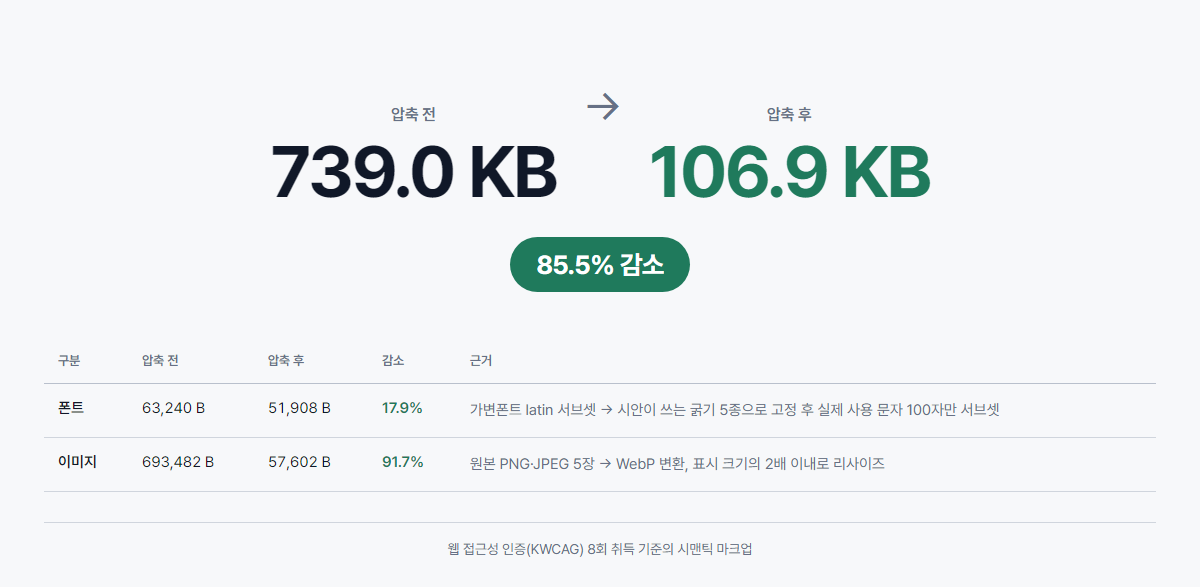
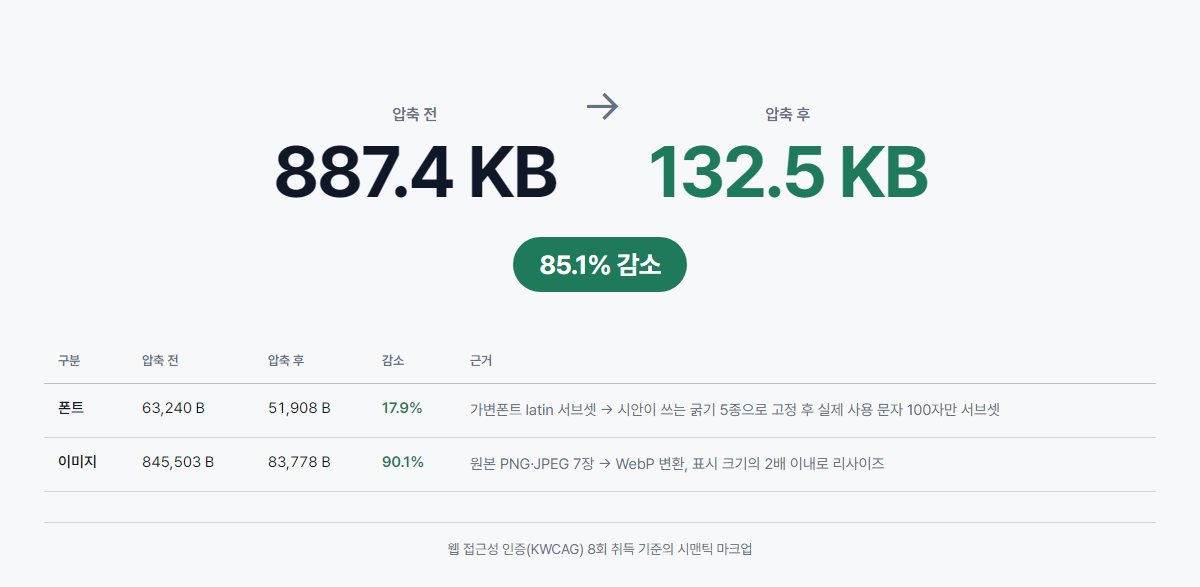
feat: 제품 카드 이미지 적용, 768 가로 넘침 수정, Vercel 정적 배포 설정
제품 카드
- 전달받은 목업 PNG 2장을 WebP로 변환해 적용, 주석 처리했던 img 복원
- 34,861 -> 13,886 / 117,160 -> 12,290 bytes

가로 넘침
- 시안은 단체 사진을 컨테이너보다 3.2% 넓게 잡아 좌우로 삐져나오게 한다.
  데스크톱에서는 컨테이너가 콘텐츠 폭의 절반이라 넘친 만큼이 여백에 흡수되는데,
  900px 이하에서 컬럼이 전체 폭이 되면서 그대로 화면 밖으로 나갔다.
  768에서 문서 폭이 771px가 되어 가로 스크롤이 생겼다. 세로 배치에서만 폭을 맞춘다.

배포
- package.json에 build 스크립트가 있어 Vercel이 프레임워크로 오해하고
  public/ 출력 폴더를 찾다가 실패했다. framework:null + outputDirectory:"." 로 고정
- .vercelignore로 tools/docs/portfolio/assets/raw 제외

검증: 3종 브라우저 높이 일치, 가로 넘침 0, 콘솔 에러 0,
시안 구조선 오차 최대 1px / 일치율 98.4%

Claude-Session: https://claude.ai/code/session_01WQu2wLsgFmneeoXvUbw1DW

diff --git a/dist/css/style.min.css b/dist/css/style.min.css
@@ -1,1 +1,1 @@
-:root{--c-ink: #132229;--c-mint: #b1d6ce;--c-text: #121212;--c-muted: #555;--c-bg: #fafafa;--c-line: #121212;--content-max: 1600px;--gutter: clamp(20px, -2.4709302326rem + 7.7519379845vw, 100px);--fs-display: clamp(28px, 0.726744186rem + 2.1317829457vw, 50px);--fs-title: clamp(22px, 0.5377906977rem + 1.7441860465vw, 40px);--fs-lead: clamp(17px, 0.4578488372rem + 1.2596899225vw, 30px);--fs-body: clamp(15px, 0.4723837209rem + 0.9689922481vw, 25px);--fs-caption: clamp(13px, 0.4869186047rem + 0.6782945736vw, 20px);--lh-display: 1.32;--lh-body: 1.32;--bw: clamp(1px, 0.0218023256rem + 0.0847868217vw, 1.875px);--sp-xs: clamp(4px, 0.0872093023rem + 0.3391472868vw, 7.5px);--sp-sm: clamp(10px, 0.1598837209rem + 0.9689922481vw, 20px);--sp-md: clamp(24px, 0.523255814rem + 2.0348837209vw, 45px);--sp-lg: clamp(30px, 0.7122093023rem + 2.4224806202vw, 55px);--sp-xl: clamp(48px, 0.5813953488rem + 5.0387596899vw, 100px);--ease: cubic-bezier(0.22, 0.61, 0.36, 1);--dur: 0.28s}@font-face{font-family:"Playfair Display";src:url("../../assets/fonts/playfair-display-400.woff2") format("woff2");font-weight:400;font-style:normal;font-display:swap}@font-face{font-family:"Playfair Display";src:url("../../assets/fonts/playfair-display-500.woff2") format("woff2");font-weight:500;font-style:normal;font-display:swap}@font-face{font-family:"Playfair Display";src:url("../../assets/fonts/playfair-display-700.woff2") format("woff2");font-weight:700;font-style:normal;font-display:swap}@font-face{font-family:"Manrope";src:url("../../assets/fonts/manrope-400.woff2") format("woff2");font-weight:400;font-style:normal;font-display:swap}@font-face{font-family:"Manrope";src:url("../../assets/fonts/manrope-600.woff2") format("woff2");font-weight:600;font-style:normal;font-display:swap}*,*::before,*::after{box-sizing:border-box}html{-webkit-text-size-adjust:100%;scroll-behavior:smooth}body{margin:0;background:var(--c-bg);color:var(--c-text);font-family:"Manrope",system-ui,-apple-system,"Segoe UI",sans-serif;font-size:var(--fs-body);line-height:var(--lh-body);overflow-x:hidden}h1,h2,h3,h4,p,figure,blockquote,hr{margin:0}ul,ol{margin:0;padding:0;list-style:none}img,svg{display:block;max-width:100%}a{color:inherit;text-decoration:none}button{margin:0;padding:0;border:0;background:none;color:inherit;font:inherit;cursor:pointer}:where(a,button,input,textarea,select,[tabindex]):focus-visible{outline:3px solid #2f6f62;outline-offset:3px;border-radius:2px}.is-dark :where(a,button,input,textarea,select,[tabindex]):focus-visible{outline-color:var(--c-mint)}.sr-only{position:absolute;width:1px;height:1px;margin:-1px;padding:0;overflow:hidden;clip-path:inset(50%);white-space:nowrap}.skip-link{position:absolute;top:0;left:0;z-index:100;padding:12px 20px;background:var(--c-mint);color:var(--c-ink);font-weight:600;transform:translateY(-120%);transition:transform var(--dur) var(--ease)}.skip-link:focus-visible{transform:translateY(0)}@media(prefers-reduced-motion: reduce){html{scroll-behavior:auto}*,*::before,*::after{animation-duration:.01ms !important;animation-iteration-count:1 !important;transition-duration:.01ms !important}}.section{padding-inline:var(--gutter);padding-block:var(--sp-xl)}.section__inner{max-width:var(--content-max);margin-inline:auto}.section--dark{background:var(--c-ink);color:var(--c-mint)}.cols{display:flex;justify-content:space-between;gap:var(--sp-xl)}.cols__col{flex:0 1 calc(50% - var(--sp-xl)/2);min-width:0}@media(max-width: 900px){.cols{flex-direction:column;gap:var(--sp-lg);align-items:stretch}.cols__col{flex:0 0 auto;width:100%}}.rule{box-sizing:border-box;max-width:var(--content-max);height:clamp(4px, 0.1104651163rem + 0.2906976744vw, 7px);margin:clamp(2px, 0.0784883721rem + 0.0968992248vw, 3px) auto 0;border:0;border-top:var(--bw) solid var(--c-line)}.js-reveal .reveal{opacity:0;transform:translateY(24px);transition:opacity .7s var(--ease),transform .7s var(--ease)}.js-reveal .reveal.is-visible{opacity:1;transform:none}.h-display{font-family:"Playfair Display",Georgia,serif;font-weight:400;font-size:var(--fs-display);line-height:var(--lh-display);color:var(--c-text)}.icon{flex:0 0 auto;width:clamp(18px, 0.5668604651rem + 1.1627906977vw, 30px);height:clamp(18px, 0.5668604651rem + 1.1627906977vw, 30px)}.link-more{display:inline-flex;align-items:center;gap:var(--sp-xs);color:var(--c-text);font-size:var(--fs-body)}.link-more__label{text-decoration:underline;text-underline-position:from-font}.link-more .icon{transition:transform var(--dur) var(--ease)}.link-more:hover .icon{transform:translateX(0.25em)}.btn-outline{display:inline-flex;align-items:center;gap:var(--sp-sm);padding:clamp(9px, 0.2834302326rem + 0.5813953488vw, 15px) var(--sp-sm);border:var(--bw) solid var(--c-line);color:var(--c-text);font-size:var(--fs-body);font-weight:600;transition:background-color var(--dur) var(--ease),color var(--dur) var(--ease)}.btn-outline__label{text-decoration:underline;text-underline-position:from-font}.btn-outline .icon{transition:transform var(--dur) var(--ease)}.btn-outline:hover{background:var(--c-text);color:var(--c-bg)}.btn-outline:hover .icon{transform:translateX(0.25em);filter:invert(1)}.btn-outline--mint{border-color:var(--c-mint);color:var(--c-mint)}.btn-outline--mint:hover{background:var(--c-mint);color:var(--c-ink)}.btn-outline--mint:hover .icon{filter:invert(1)}.btn-block{display:flex;align-items:center;justify-content:center;gap:var(--sp-sm);width:100%;padding:clamp(9px, 0.2834302326rem + 0.5813953488vw, 15px) var(--sp-sm);border:var(--bw) solid var(--c-line);color:var(--c-text);font-size:var(--fs-body);font-weight:600;transition:background-color var(--dur) var(--ease),color var(--dur) var(--ease)}.btn-block--underline{text-decoration:underline;text-underline-position:from-font}.btn-block:hover{background:var(--c-text);color:var(--c-bg)}.btn-square{display:inline-flex;align-items:center;justify-content:center;width:clamp(36px, 1.1337209302rem + 2.3255813953vw, 60px);height:clamp(36px, 1.1337209302rem + 2.3255813953vw, 60px);background:var(--c-mint);transition:opacity var(--dur) var(--ease)}.btn-square .icon{width:clamp(24px, 0.7558139535rem + 1.5503875969vw, 40px);height:clamp(24px, 0.7558139535rem + 1.5503875969vw, 40px)}.btn-square:hover{opacity:.82}.card{display:flex;flex-direction:column;gap:var(--sp-lg);padding:var(--sp-sm);border-top:var(--bw) solid var(--c-line);border-bottom:var(--bw) solid var(--c-line)}.card__text{display:flex;flex-direction:column;gap:var(--sp-sm)}.card__title{margin:0;font-family:"Playfair Display",Georgia,serif;font-weight:500;font-size:var(--fs-title);line-height:var(--lh-display);color:var(--c-text)}.card__desc{color:var(--c-muted);font-size:var(--fs-body)}.card__shot{aspect-ratio:710/500;overflow:hidden;background:#f5f5f5}.card__shot img{width:100%;height:100%;object-fit:cover;object-position:top left}.card--product{overflow:hidden}.card-row{display:flex;justify-content:space-between;gap:0}.card-row>.card{min-width:0}.card-row--3>.card{flex:0 1 30.15625%}.card-row--2>.card{flex:0 1 46.875%}@media(max-width: 1100px){.card-row--3{flex-wrap:wrap;gap:var(--sp-lg);justify-content:flex-start}.card-row--3>.card{flex:1 1 calc(50% - var(--sp-lg))}}@media(max-width: 700px){.card-row{flex-direction:column;gap:var(--sp-lg)}.card-row>.card{flex:1 1 auto}}.person{display:flex;flex-direction:column;gap:var(--sp-xs)}.person--row{flex-direction:row;align-items:flex-start;gap:clamp(9px, 0.2834302326rem + 0.5813953488vw, 15px)}.person__avatar{flex:0 0 auto;width:clamp(44px, 1.3081395349rem + 3.003875969vw, 75px);height:clamp(44px, 1.3081395349rem + 3.003875969vw, 75px);border-radius:50%;object-fit:cover}.person__meta{display:flex;flex-direction:column;gap:var(--sp-xs)}.person__name{font-family:"Playfair Display",Georgia,serif;font-weight:500;font-size:var(--fs-title)}.person__name--sm{font-weight:400;font-size:var(--fs-body);color:var(--c-text)}.person__role{font-size:var(--fs-caption);color:var(--c-muted)}.media{position:relative;aspect-ratio:750/560;width:100%}.media__shape{position:absolute;top:50%;left:50%;width:auto;height:133.9285714286%;aspect-ratio:186.564/250;transform:translate(-50%, -50%) rotate(-90deg);transform-origin:center}.media__photo{position:absolute;max-width:none;object-fit:cover}.media__photo--founder{top:54.8%;left:50%;width:69.833%;height:90.402%;object-position:center top;transform:translate(-50%, -50%)}.media__photo--team{top:7.813%;left:51.584%;width:103.167%;height:92.113%;transform:translateX(-50%)}.nav{background:var(--c-ink);padding:clamp(9px, 0.2834302326rem + 0.5813953488vw, 15px) var(--gutter)}.nav__inner{display:flex;align-items:center;gap:clamp(24px, -3.1976744186rem + 9.7868217054vw, 125px);max-width:var(--content-max);margin-inline:auto}.nav__brand img{width:clamp(70px, 2.7005813953rem + 3.488372093vw, 106px);height:auto}.nav__menu{display:flex;align-items:center;gap:var(--sp-sm)}.nav__link{display:inline-block;padding:clamp(10px, -0.3052325581rem + 1.9379844961vw, 30px) clamp(6px, -0.0436046512rem + 0.8720930233vw, 15px);color:var(--c-mint);font-family:"Playfair Display",Georgia,serif;font-weight:500;font-size:var(--fs-body);transition:opacity var(--dur) var(--ease)}.nav__link:hover{opacity:.7}@media(max-width: 560px){.nav__inner{flex-direction:column;align-items:flex-start;gap:8px}.nav__menu{flex-wrap:wrap}}.hero{background:var(--c-ink)}.hero__inner{display:flex;align-items:flex-end;justify-content:space-between;gap:var(--sp-xl);min-height:clamp(0px, -24.6511627907rem + 51.3565891473vw, 530px)}.hero__title{flex:0 1 auto;max-width:750px;margin:0;color:var(--c-mint);font-family:"Playfair Display",Georgia,serif;font-weight:400;font-size:var(--fs-display);line-height:var(--lh-display)}@media(max-width: 900px){.hero__inner{flex-direction:column;align-items:flex-start;gap:var(--sp-lg)}.hero__title{max-width:none}}.deco{display:flex;flex-direction:column;gap:clamp(14px, -0.5668604651rem + 3.003875969vw, 45px)}.deco__row{display:flex}.deco__cell{display:block;width:clamp(28px, -1.1337209302rem + 6.007751938vw, 90px);height:clamp(28px, -1.1337209302rem + 6.007751938vw, 90px)}.deco__cell img{width:100%;height:100%}@media(max-width: 900px){.deco{align-self:flex-start}}.about__aside{display:flex;flex-direction:column;justify-content:space-between;gap:var(--sp-lg);min-height:clamp(0px, -18.6046511628rem + 38.7596899225vw, 400px)}.about__text{font-size:var(--fs-body)}.about .btn-outline{align-self:flex-end}@media(max-width: 900px){.about__aside{min-height:0}.about .btn-outline{align-self:flex-start}}.services .section__inner,.products .section__inner,.testimonials .section__inner{display:flex;flex-direction:column;gap:var(--sp-lg);align-items:stretch}.quote{background:var(--c-ink);color:var(--c-mint)}.quote .section__inner{align-items:flex-end}.quote__body{display:flex;flex-direction:column;justify-content:space-between;gap:var(--sp-lg);min-height:clamp(0px, -26.0465116279rem + 54.2635658915vw, 560px)}.quote__text{font-family:"Playfair Display",Georgia,serif;font-weight:400;font-size:var(--fs-display);line-height:var(--lh-display)}.quote__text strong{font-weight:700}.quote__action{display:flex;align-items:flex-end;justify-content:space-between;gap:var(--sp-md)}.quote__links{display:flex;gap:var(--sp-sm);font-family:"Playfair Display",Georgia,serif;font-weight:500;font-size:var(--fs-lead)}.quote__links a{text-decoration:underline;text-underline-position:from-font;transition:opacity var(--dur) var(--ease)}.quote__links a:hover{opacity:.7}.quote .person__name,.quote .person__role{color:var(--c-mint)}@media(max-width: 900px){.quote .section__inner{align-items:stretch}.quote__body{min-height:0}.quote__action{flex-wrap:wrap;align-items:center}}.cta{background:#f5f5f5}.cta .section__inner{align-items:flex-end}.cta__body{display:flex;flex-direction:column;justify-content:space-between;gap:var(--sp-lg);min-height:clamp(0px, -26.0465116279rem + 54.2635658915vw, 560px)}.cta__title{margin:0;color:var(--c-ink);font-family:"Playfair Display",Georgia,serif;font-weight:400;font-size:clamp(34px, -0.4796511628rem + 5.4263565891vw, 90px);line-height:1.2}@media(max-width: 900px){.cta .section__inner{align-items:stretch}.cta__body{min-height:0}}.site-footer{background:var(--c-ink);color:var(--c-mint)}.site-footer .section__inner{align-items:flex-end}.site-footer__brand{display:flex;flex-direction:column;gap:var(--sp-lg);align-items:flex-start}.site-footer__logo{width:clamp(70px, 2.7005813953rem + 3.488372093vw, 106px);height:auto}.site-footer__tagline{font-family:"Playfair Display",Georgia,serif;font-weight:400;font-size:var(--fs-title);line-height:var(--lh-display);max-width:750px}.site-footer__copy{font-size:var(--fs-body)}.site-footer__menus{display:flex;justify-content:flex-end;gap:var(--sp-lg)}.site-footer__license{max-width:var(--content-max);margin:var(--sp-lg) auto 0;padding-top:var(--sp-sm);border-top:1px solid rgba(177,214,206,.28);font-size:var(--fs-caption);color:rgba(177,214,206,.72)}.site-footer__license a{text-decoration:underline;text-underline-position:from-font}@media(max-width: 900px){.site-footer .section__inner{align-items:stretch}.site-footer__menus{justify-content:flex-start}}.footer-menu{display:flex;flex-direction:column;gap:clamp(9px, 0.2834302326rem + 0.5813953488vw, 15px)}.footer-menu__title{margin:0;padding:clamp(3px, 0.0944767442rem + 0.1937984496vw, 5px) clamp(6px, 0.1889534884rem + 0.3875968992vw, 10px);font-family:"Playfair Display",Georgia,serif;font-weight:700;font-size:var(--fs-lead);line-height:var(--lh-display)}.footer-menu ul{display:flex;flex-direction:column;gap:clamp(1px, -0.0072674419rem + 0.1453488372vw, 2.5px)}.footer-menu a{display:inline-block;padding:clamp(3px, 0.0944767442rem + 0.1937984496vw, 5px) clamp(6px, 0.1889534884rem + 0.3875968992vw, 10px);font-size:var(--fs-body);text-decoration:underline;text-underline-position:from-font;transition:opacity var(--dur) var(--ease)}.footer-menu a:hover{opacity:.7}
+:root{--c-ink: #132229;--c-mint: #b1d6ce;--c-text: #121212;--c-muted: #555;--c-bg: #fafafa;--c-line: #121212;--content-max: 1600px;--gutter: clamp(20px, -2.4709302326rem + 7.7519379845vw, 100px);--fs-display: clamp(28px, 0.726744186rem + 2.1317829457vw, 50px);--fs-title: clamp(22px, 0.5377906977rem + 1.7441860465vw, 40px);--fs-lead: clamp(17px, 0.4578488372rem + 1.2596899225vw, 30px);--fs-body: clamp(15px, 0.4723837209rem + 0.9689922481vw, 25px);--fs-caption: clamp(13px, 0.4869186047rem + 0.6782945736vw, 20px);--lh-display: 1.32;--lh-body: 1.32;--bw: clamp(1px, 0.0218023256rem + 0.0847868217vw, 1.875px);--sp-xs: clamp(4px, 0.0872093023rem + 0.3391472868vw, 7.5px);--sp-sm: clamp(10px, 0.1598837209rem + 0.9689922481vw, 20px);--sp-md: clamp(24px, 0.523255814rem + 2.0348837209vw, 45px);--sp-lg: clamp(30px, 0.7122093023rem + 2.4224806202vw, 55px);--sp-xl: clamp(48px, 0.5813953488rem + 5.0387596899vw, 100px);--ease: cubic-bezier(0.22, 0.61, 0.36, 1);--dur: 0.28s}@font-face{font-family:"Playfair Display";src:url("../../assets/fonts/playfair-display-400.woff2") format("woff2");font-weight:400;font-style:normal;font-display:swap}@font-face{font-family:"Playfair Display";src:url("../../assets/fonts/playfair-display-500.woff2") format("woff2");font-weight:500;font-style:normal;font-display:swap}@font-face{font-family:"Playfair Display";src:url("../../assets/fonts/playfair-display-700.woff2") format("woff2");font-weight:700;font-style:normal;font-display:swap}@font-face{font-family:"Manrope";src:url("../../assets/fonts/manrope-400.woff2") format("woff2");font-weight:400;font-style:normal;font-display:swap}@font-face{font-family:"Manrope";src:url("../../assets/fonts/manrope-600.woff2") format("woff2");font-weight:600;font-style:normal;font-display:swap}*,*::before,*::after{box-sizing:border-box}html{-webkit-text-size-adjust:100%;scroll-behavior:smooth}body{margin:0;background:var(--c-bg);color:var(--c-text);font-family:"Manrope",system-ui,-apple-system,"Segoe UI",sans-serif;font-size:var(--fs-body);line-height:var(--lh-body);overflow-x:hidden}h1,h2,h3,h4,p,figure,blockquote,hr{margin:0}ul,ol{margin:0;padding:0;list-style:none}img,svg{display:block;max-width:100%}a{color:inherit;text-decoration:none}button{margin:0;padding:0;border:0;background:none;color:inherit;font:inherit;cursor:pointer}:where(a,button,input,textarea,select,[tabindex]):focus-visible{outline:3px solid #2f6f62;outline-offset:3px;border-radius:2px}.is-dark :where(a,button,input,textarea,select,[tabindex]):focus-visible{outline-color:var(--c-mint)}.sr-only{position:absolute;width:1px;height:1px;margin:-1px;padding:0;overflow:hidden;clip-path:inset(50%);white-space:nowrap}.skip-link{position:absolute;top:0;left:0;z-index:100;padding:12px 20px;background:var(--c-mint);color:var(--c-ink);font-weight:600;transform:translateY(-120%);transition:transform var(--dur) var(--ease)}.skip-link:focus-visible{transform:translateY(0)}@media(prefers-reduced-motion: reduce){html{scroll-behavior:auto}*,*::before,*::after{animation-duration:.01ms !important;animation-iteration-count:1 !important;transition-duration:.01ms !important}}.section{padding-inline:var(--gutter);padding-block:var(--sp-xl)}.section__inner{max-width:var(--content-max);margin-inline:auto}.section--dark{background:var(--c-ink);color:var(--c-mint)}.cols{display:flex;justify-content:space-between;gap:var(--sp-xl)}.cols__col{flex:0 1 calc(50% - var(--sp-xl)/2);min-width:0}@media(max-width: 900px){.cols{flex-direction:column;gap:var(--sp-lg);align-items:stretch}.cols__col{flex:0 0 auto;width:100%}}.rule{box-sizing:border-box;max-width:var(--content-max);height:clamp(4px, 0.1104651163rem + 0.2906976744vw, 7px);margin:clamp(2px, 0.0784883721rem + 0.0968992248vw, 3px) auto 0;border:0;border-top:var(--bw) solid var(--c-line)}.js-reveal .reveal{opacity:0;transform:translateY(24px);transition:opacity .7s var(--ease),transform .7s var(--ease)}.js-reveal .reveal.is-visible{opacity:1;transform:none}.h-display{font-family:"Playfair Display",Georgia,serif;font-weight:400;font-size:var(--fs-display);line-height:var(--lh-display);color:var(--c-text)}.icon{flex:0 0 auto;width:clamp(18px, 0.5668604651rem + 1.1627906977vw, 30px);height:clamp(18px, 0.5668604651rem + 1.1627906977vw, 30px)}.link-more{display:inline-flex;align-items:center;gap:var(--sp-xs);color:var(--c-text);font-size:var(--fs-body)}.link-more__label{text-decoration:underline;text-underline-position:from-font}.link-more .icon{transition:transform var(--dur) var(--ease)}.link-more:hover .icon{transform:translateX(0.25em)}.btn-outline{display:inline-flex;align-items:center;gap:var(--sp-sm);padding:clamp(9px, 0.2834302326rem + 0.5813953488vw, 15px) var(--sp-sm);border:var(--bw) solid var(--c-line);color:var(--c-text);font-size:var(--fs-body);font-weight:600;transition:background-color var(--dur) var(--ease),color var(--dur) var(--ease)}.btn-outline__label{text-decoration:underline;text-underline-position:from-font}.btn-outline .icon{transition:transform var(--dur) var(--ease)}.btn-outline:hover{background:var(--c-text);color:var(--c-bg)}.btn-outline:hover .icon{transform:translateX(0.25em);filter:invert(1)}.btn-outline--mint{border-color:var(--c-mint);color:var(--c-mint)}.btn-outline--mint:hover{background:var(--c-mint);color:var(--c-ink)}.btn-outline--mint:hover .icon{filter:invert(1)}.btn-block{display:flex;align-items:center;justify-content:center;gap:var(--sp-sm);width:100%;padding:clamp(9px, 0.2834302326rem + 0.5813953488vw, 15px) var(--sp-sm);border:var(--bw) solid var(--c-line);color:var(--c-text);font-size:var(--fs-body);font-weight:600;transition:background-color var(--dur) var(--ease),color var(--dur) var(--ease)}.btn-block--underline{text-decoration:underline;text-underline-position:from-font}.btn-block:hover{background:var(--c-text);color:var(--c-bg)}.btn-square{display:inline-flex;align-items:center;justify-content:center;width:clamp(36px, 1.1337209302rem + 2.3255813953vw, 60px);height:clamp(36px, 1.1337209302rem + 2.3255813953vw, 60px);background:var(--c-mint);transition:opacity var(--dur) var(--ease)}.btn-square .icon{width:clamp(24px, 0.7558139535rem + 1.5503875969vw, 40px);height:clamp(24px, 0.7558139535rem + 1.5503875969vw, 40px)}.btn-square:hover{opacity:.82}.card{display:flex;flex-direction:column;gap:var(--sp-lg);padding:var(--sp-sm);border-top:var(--bw) solid var(--c-line);border-bottom:var(--bw) solid var(--c-line)}.card__text{display:flex;flex-direction:column;gap:var(--sp-sm)}.card__title{margin:0;font-family:"Playfair Display",Georgia,serif;font-weight:500;font-size:var(--fs-title);line-height:var(--lh-display);color:var(--c-text)}.card__desc{color:var(--c-muted);font-size:var(--fs-body)}.card__shot{aspect-ratio:710/500;overflow:hidden;background:#f5f5f5}.card__shot img{width:100%;height:100%;object-fit:cover;object-position:top left}.card--product{overflow:hidden}.card-row{display:flex;justify-content:space-between;gap:0}.card-row>.card{min-width:0}.card-row--3>.card{flex:0 1 30.15625%}.card-row--2>.card{flex:0 1 46.875%}@media(max-width: 1100px){.card-row--3{flex-wrap:wrap;gap:var(--sp-lg);justify-content:flex-start}.card-row--3>.card{flex:1 1 calc(50% - var(--sp-lg))}}@media(max-width: 700px){.card-row{flex-direction:column;gap:var(--sp-lg)}.card-row>.card{flex:1 1 auto}}.person{display:flex;flex-direction:column;gap:var(--sp-xs)}.person--row{flex-direction:row;align-items:flex-start;gap:clamp(9px, 0.2834302326rem + 0.5813953488vw, 15px)}.person__avatar{flex:0 0 auto;width:clamp(44px, 1.3081395349rem + 3.003875969vw, 75px);height:clamp(44px, 1.3081395349rem + 3.003875969vw, 75px);border-radius:50%;object-fit:cover}.person__meta{display:flex;flex-direction:column;gap:var(--sp-xs)}.person__name{font-family:"Playfair Display",Georgia,serif;font-weight:500;font-size:var(--fs-title)}.person__name--sm{font-weight:400;font-size:var(--fs-body);color:var(--c-text)}.person__role{font-size:var(--fs-caption);color:var(--c-muted)}.media{position:relative;aspect-ratio:750/560;width:100%}.media__shape{position:absolute;top:50%;left:50%;width:auto;height:133.9285714286%;aspect-ratio:186.564/250;transform:translate(-50%, -50%) rotate(-90deg);transform-origin:center}.media__photo{position:absolute;max-width:none;object-fit:cover}.media__photo--founder{top:54.8%;left:50%;width:69.833%;height:90.402%;object-position:center top;transform:translate(-50%, -50%)}.media__photo--team{top:7.813%;left:51.584%;width:103.167%;height:92.113%;transform:translateX(-50%)}@media(max-width: 900px){.media__photo--team{left:50%;width:100%}}.nav{background:var(--c-ink);padding:clamp(9px, 0.2834302326rem + 0.5813953488vw, 15px) var(--gutter)}.nav__inner{display:flex;align-items:center;gap:clamp(24px, -3.1976744186rem + 9.7868217054vw, 125px);max-width:var(--content-max);margin-inline:auto}.nav__brand img{width:clamp(70px, 2.7005813953rem + 3.488372093vw, 106px);height:auto}.nav__menu{display:flex;align-items:center;gap:var(--sp-sm)}.nav__link{display:inline-block;padding:clamp(10px, -0.3052325581rem + 1.9379844961vw, 30px) clamp(6px, -0.0436046512rem + 0.8720930233vw, 15px);color:var(--c-mint);font-family:"Playfair Display",Georgia,serif;font-weight:500;font-size:var(--fs-body);transition:opacity var(--dur) var(--ease)}.nav__link:hover{opacity:.7}@media(max-width: 560px){.nav__inner{flex-direction:column;align-items:flex-start;gap:8px}.nav__menu{flex-wrap:wrap}}.hero{background:var(--c-ink)}.hero__inner{display:flex;align-items:flex-end;justify-content:space-between;gap:var(--sp-xl);min-height:clamp(0px, -24.6511627907rem + 51.3565891473vw, 530px)}.hero__title{flex:0 1 auto;max-width:750px;margin:0;color:var(--c-mint);font-family:"Playfair Display",Georgia,serif;font-weight:400;font-size:var(--fs-display);line-height:var(--lh-display)}@media(max-width: 900px){.hero__inner{flex-direction:column;align-items:flex-start;gap:var(--sp-lg)}.hero__title{max-width:none}}.deco{display:flex;flex-direction:column;gap:clamp(14px, -0.5668604651rem + 3.003875969vw, 45px)}.deco__row{display:flex}.deco__cell{display:block;width:clamp(28px, -1.1337209302rem + 6.007751938vw, 90px);height:clamp(28px, -1.1337209302rem + 6.007751938vw, 90px)}.deco__cell img{width:100%;height:100%}@media(max-width: 900px){.deco{align-self:flex-start}}.about__aside{display:flex;flex-direction:column;justify-content:space-between;gap:var(--sp-lg);min-height:clamp(0px, -18.6046511628rem + 38.7596899225vw, 400px)}.about__text{font-size:var(--fs-body)}.about .btn-outline{align-self:flex-end}@media(max-width: 900px){.about__aside{min-height:0}.about .btn-outline{align-self:flex-start}}.services .section__inner,.products .section__inner,.testimonials .section__inner{display:flex;flex-direction:column;gap:var(--sp-lg);align-items:stretch}.quote{background:var(--c-ink);color:var(--c-mint)}.quote .section__inner{align-items:flex-end}.quote__body{display:flex;flex-direction:column;justify-content:space-between;gap:var(--sp-lg);min-height:clamp(0px, -26.0465116279rem + 54.2635658915vw, 560px)}.quote__text{font-family:"Playfair Display",Georgia,serif;font-weight:400;font-size:var(--fs-display);line-height:var(--lh-display)}.quote__text strong{font-weight:700}.quote__action{display:flex;align-items:flex-end;justify-content:space-between;gap:var(--sp-md)}.quote__links{display:flex;gap:var(--sp-sm);font-family:"Playfair Display",Georgia,serif;font-weight:500;font-size:var(--fs-lead)}.quote__links a{text-decoration:underline;text-underline-position:from-font;transition:opacity var(--dur) var(--ease)}.quote__links a:hover{opacity:.7}.quote .person__name,.quote .person__role{color:var(--c-mint)}@media(max-width: 900px){.quote .section__inner{align-items:stretch}.quote__body{min-height:0}.quote__action{flex-wrap:wrap;align-items:center}}.cta{background:#f5f5f5}.cta .section__inner{align-items:flex-end}.cta__body{display:flex;flex-direction:column;justify-content:space-between;gap:var(--sp-lg);min-height:clamp(0px, -26.0465116279rem + 54.2635658915vw, 560px)}.cta__title{margin:0;color:var(--c-ink);font-family:"Playfair Display",Georgia,serif;font-weight:400;font-size:clamp(34px, -0.4796511628rem + 5.4263565891vw, 90px);line-height:1.2}@media(max-width: 900px){.cta .section__inner{align-items:stretch}.cta__body{min-height:0}}.site-footer{background:var(--c-ink);color:var(--c-mint)}.site-footer .section__inner{align-items:flex-end}.site-footer__brand{display:flex;flex-direction:column;gap:var(--sp-lg);align-items:flex-start}.site-footer__logo{width:clamp(70px, 2.7005813953rem + 3.488372093vw, 106px);height:auto}.site-footer__tagline{font-family:"Playfair Display",Georgia,serif;font-weight:400;font-size:var(--fs-title);line-height:var(--lh-display);max-width:750px}.site-footer__copy{font-size:var(--fs-body)}.site-footer__menus{display:flex;justify-content:flex-end;gap:var(--sp-lg)}.site-footer__license{max-width:var(--content-max);margin:var(--sp-lg) auto 0;padding-top:var(--sp-sm);border-top:1px solid rgba(177,214,206,.28);font-size:var(--fs-caption);color:rgba(177,214,206,.72)}.site-footer__license a{text-decoration:underline;text-underline-position:from-font}@media(max-width: 900px){.site-footer .section__inner{align-items:stretch}.site-footer__menus{justify-content:flex-start}}.footer-menu{display:flex;flex-direction:column;gap:clamp(9px, 0.2834302326rem + 0.5813953488vw, 15px)}.footer-menu__title{margin:0;padding:clamp(3px, 0.0944767442rem + 0.1937984496vw, 5px) clamp(6px, 0.1889534884rem + 0.3875968992vw, 10px);font-family:"Playfair Display",Georgia,serif;font-weight:700;font-size:var(--fs-lead);line-height:var(--lh-display)}.footer-menu ul{display:flex;flex-direction:column;gap:clamp(1px, -0.0072674419rem + 0.1453488372vw, 2.5px)}.footer-menu a{display:inline-block;padding:clamp(3px, 0.0944767442rem + 0.1937984496vw, 5px) clamp(6px, 0.1889534884rem + 0.3875968992vw, 10px);font-size:var(--fs-body);text-decoration:underline;text-underline-position:from-font;transition:opacity var(--dur) var(--ease)}.footer-menu a:hover{opacity:.7}

diff --git a/index.html b/index.html
@@ -248,19 +248,16 @@
                   online business.
                 </p>
               </div>
-              <!-- TODO(에셋): assets/img/product-ecommerce.webp 넣은 뒤 아래 img 주석 해제.
-                   시안의 이 영역은 Figma 안에서 벡터·텍스트 수백 개로 조립된 UI 목업이라
-                   마크업으로 재현하지 않고 이미지 한 장으로 export해서 쓰는 게 맞다.
-                   해당 노드가 Thumbnail 프레임 클리핑 밖이라 아직 export를 못 받았다.
-                   빈 상태에서도 시안의 회색 박스(#f5f5f5)와 비율(710:500)은 그대로 유지된다. -->
+              <!-- 시안의 이 영역은 Figma 안에서 벡터·텍스트 수백 개로 조립된 UI 목업이라
+                   마크업으로 재현하지 않고 이미지 한 장으로 써야 한다. -->
               <div class="card__shot">
-                <!-- <img
+                <img
                   src="assets/img/product-ecommerce.webp"
                   alt="Checkout screen of an ecommerce site built by Codev, showing an order summary and payment method form"
                   width="710"
                   height="500"
                   loading="lazy"
-                /> -->
+                />
               </div>
               <a class="link-more" href="#cta">
                 <span class="link-more__label">View more</span>
@@ -277,15 +274,14 @@
                   service, newsletter, or new account.
                 </p>
               </div>
-              <!-- TODO(에셋): assets/img/product-signup.webp 넣은 뒤 아래 img 주석 해제 -->
               <div class="card__shot">
-                <!-- <img
+                <img
                   src="assets/img/product-signup.webp"
                   alt="Create an Account sign up screen built by Codev, with an account form beside a lifestyle photo"
                   width="710"
                   height="500"
                   loading="lazy"
-                /> -->
+                />
               </div>
               <a class="link-more" href="#cta">
                 <span class="link-more__label">View more</span>

diff --git a/src/scss/_components.scss b/src/scss/_components.scss
@@ -333,11 +333,21 @@
   }
 
   // 배너 단체 사진 — 시안 773.75×515.83, 상단에서 43.75px, 중앙에서 우측으로 11.88px
+  //
+  // 시안은 사진을 컨테이너(750)보다 3.2% 넓게 잡아 좌우로 살짝 삐져나오게 했다.
+  // 데스크톱에서는 컨테이너가 콘텐츠 폭의 절반이라 넘친 만큼이 여백에 흡수된다.
   &__photo--team {
     top: 7.813%; // 43.75 / 560
     left: calc(50% + 1.584%); // 11.88 / 750
     width: 103.167%; // 773.75 / 750
     height: 92.113%; // 515.83 / 560
     transform: translateX(-50%);
+
+    // 세로 배치에서는 컨테이너가 화면 전체 폭이 되어 넘친 3.2%가 그대로 화면 밖으로 나간다.
+    // 실제로 768에서 문서 폭이 771px가 되어 가로 스크롤이 생겼다. 그래서 폭을 맞춘다.
+    @media (max-width: 900px) {
+      left: 50%;
+      width: 100%;
+    }
   }
 }

diff --git a/dist/css/style.css b/dist/css/style.css
@@ -477,6 +477,12 @@ button {
   height: 92.113%;
   transform: translateX(-50%);
 }
+@media (max-width: 900px) {
+  .media__photo--team {
+    left: 50%;
+    width: 100%;
+  }
+}
 
 .nav {
   background: var(--c-ink);

diff --git a/README.md b/README.md
@@ -2,6 +2,16 @@
 
 Figma 시안을 HTML + SCSS로 1:1 재현한 퍼블리싱 데모입니다.
 
+**배포:** https://codev-landing-eight.vercel.app
+
+| 검증 항목 | 결과 |
+| --- | --- |
+| 시안 대조 (구조선 오차) | 최대 **1px** |
+| 시안 대조 (픽셀 일치율) | **98.4%** (1px 허용오차) |
+| 크로스브라우징 | Chromium / Firefox / WebKit 페이지 높이 일치 |
+| 콘솔 · 네트워크 에러 | 0건 |
+| 에셋 용량 | 887.4 KB → 132.5 KB (**85.1% 감소**) |
+
 ## 라이선스 / 출처
 
 > **Design: Figma Community — Codev B2B Landing Page**
@@ -89,22 +99,3 @@ Figma가 돌려주는 px값을 그대로 쓰면 안 됩니다. 3배 환산해야
 > 시안에 폼(form)이 없어 `label` 연결 대상이 없습니다.
 > 시안에 없는 입력 요소를 새로 만들지 않았습니다.
 
-## 남은 에셋 1건
-
-`Product` 섹션의 카드 스크린샷 2장이 아직 비어 있습니다.
-
-시안에서 이 영역은 Figma 안에서 벡터·텍스트 수백 개로 조립된 UI 목업이라,
-마크업으로 재현하지 않고 이미지 한 장으로 export해서 쓰는 것이 맞습니다.
-그런데 해당 노드가 커뮤니티 파일의 `Thumbnail` 프레임 클리핑 밖에 있어
-export가 1×1 빈 이미지로 나옵니다.
-
-에셋 넣는 방법:
-
-1. Figma에서 `Product` → `card` → 각 `box` → `image` 프레임 선택
-2. Export **3x** / PNG
-3. `assets/img/product-ecommerce.png`, `assets/img/product-signup.png` 로 저장
-4. `npm run img` 실행
-5. `index.html`에서 `card__shot` 안에 주석 처리된 `img` 태그 2곳을 주석 해제
-
-비어 있는 동안에도 시안의 회색 박스(`#f5f5f5`)와 비율(710:500)은 그대로 유지되어
-레이아웃은 어긋나지 않습니다. 콘솔 에러도 없습니다.
